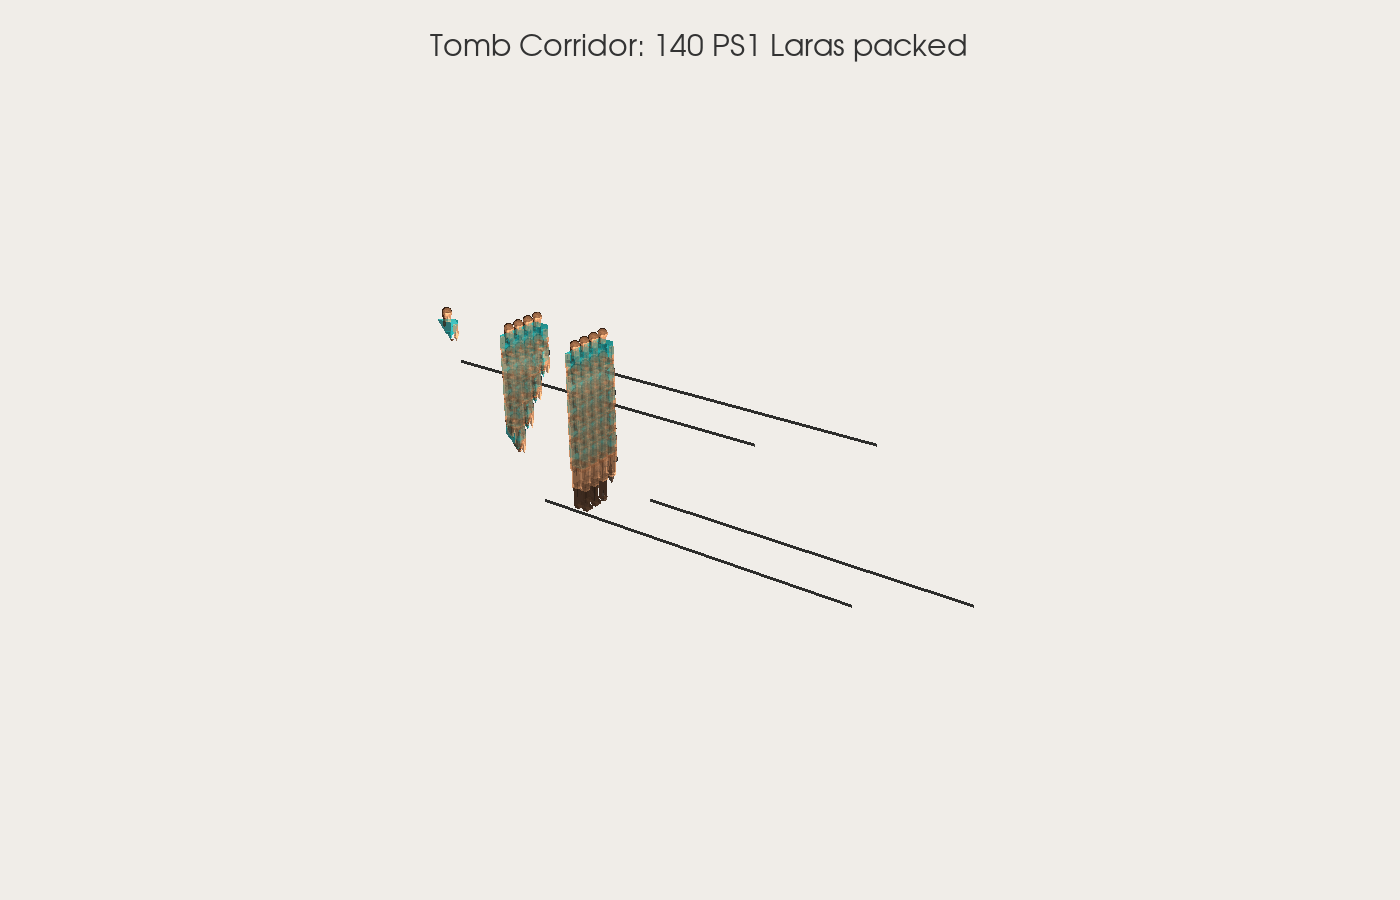
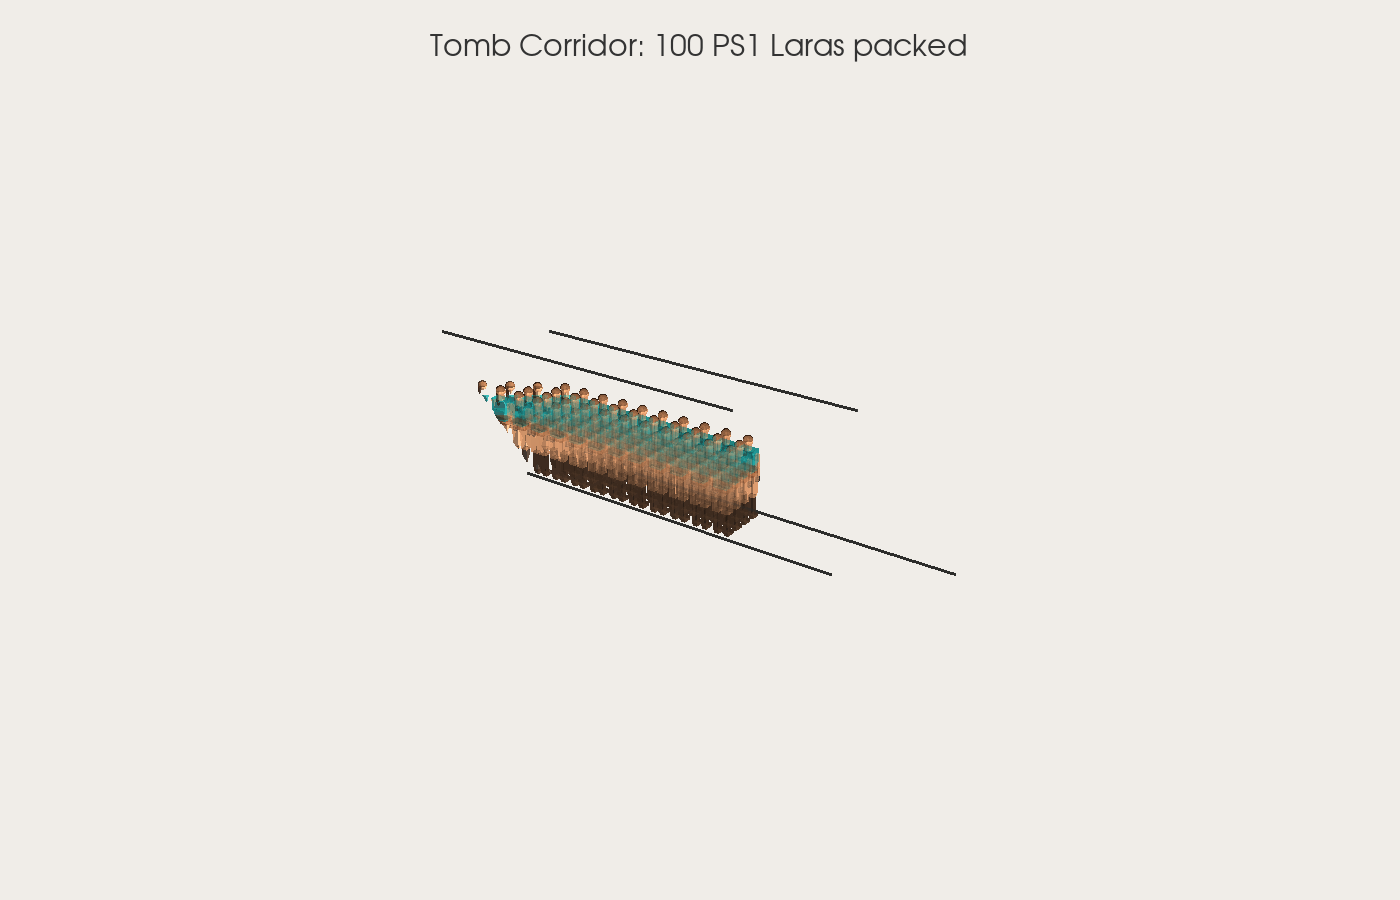
Fix packing scene orientations and camera for all venues
- Add pack_3d_visual() that preserves upright orientation (Z-axis stays up)
- Fix mesh-offset mismatch: apply permutation matrix to mesh for rendering
- Adaptive camera for elongated containers (Boeing 737 end-on view)
- Increase max_render to 200 with uniform subsampling for large scenes
- All standing humans now render standing, planking horizontal, etc.

Changed region(s): [[0.3071, 0.3422, 0.6757, 0.6533], [0.4607, 0.0311, 0.4914, 0.0622]]

diff --git a/peoplepacking/experiment3d.py b/peoplepacking/experiment3d.py
@@ -109,7 +109,7 @@ def render_mesh(mesh, filename, title="", color=None, show_bb=True,
 
 
 def render_packing_scene(meshes_with_offsets, container_dims, filename, title="",
-                          window_size=(1400, 900), max_render=60):
+                          window_size=(1400, 900), max_render=200):
     """Render a 3D packing scene with multiple colored humans in a container."""
     pl = pv.Plotter(off_screen=True, window_size=window_size)
     pl.set_background('#F0EDE8')
@@ -121,9 +121,15 @@ def render_packing_scene(meshes_with_offsets, container_dims, filename, title=""
         '#F1C27D', '#6B8E9B', '#A0785A', '#B8A89A', '#D2A679',
     ]
 
-    n_to_render = min(len(meshes_with_offsets), max_render)
+    n_total = len(meshes_with_offsets)
+    if n_total <= max_render:
+        render_indices = range(n_total)
+    else:
+        # Sample uniformly to spread rendered humans across the container
+        render_indices = np.linspace(0, n_total - 1, max_render, dtype=int)
 
-    for i, (mesh, offset) in enumerate(meshes_with_offsets[:n_to_render]):
+    for i, idx in enumerate(render_indices):
+        mesh, offset = meshes_with_offsets[idx]
         shifted = mesh.copy()
         shifted.vertices += offset
         pv_mesh = trimesh_to_pyvista(shifted)
@@ -139,11 +145,22 @@ def render_packing_scene(meshes_with_offsets, container_dims, filename, title=""
     if title:
         pl.add_title(title, font_size=12, color='#333333')
 
-    # 3/4 isometric view (Z is up)
-    pl.camera_position = 'xz'
-    pl.camera.azimuth = 35
-    pl.camera.elevation = 25
-    pl.camera.zoom(0.80)
+    # Camera: use end-on view for very elongated containers, 3/4 iso otherwise
+    aspect = max(Lx, Ly) / max(min(Lx, Ly), 0.1)
+    if aspect > 5:
+        # Elongated container - look from one end so cross-section is visible
+        cx, cy, cz = Lx / 2, Ly / 2, Lz / 2
+        pl.camera.focal_point = (cx, cy, cz)
+        pl.camera.position = (Lx * 1.8, -Ly * 2.5, Lz * 2.5)
+        pl.camera.up = (0, 0, 1)
+        pl.reset_camera()
+        pl.camera.zoom(0.9)
+    else:
+        pl.reset_camera()
+        pl.camera.azimuth = 35
+        pl.camera.elevation = 25
+        pl.camera.zoom(0.85)
+
     # Two-point lighting for depth
     pl.add_light(pv.Light(position=(Lx*2, Ly*2, Lz*3), intensity=0.7))
     pl.add_light(pv.Light(position=(-Lx, -Ly, Lz*2), intensity=0.3))
@@ -249,6 +266,50 @@ def apply_rotation_to_mesh(mesh, R):
     # Re-center to put min at origin
     m.vertices -= m.vertices.min(axis=0)
     return m
+
+
+def perm_to_matrix(perm):
+    """Convert an axis permutation to a 3x3 transform matrix.
+    perm=(a,b,c) means: map original axis a->X, b->Y, c->Z."""
+    P = np.zeros((3, 3))
+    P[0, perm[0]] = 1
+    P[1, perm[1]] = 1
+    P[2, perm[2]] = 1
+    return P
+
+
+def pack_3d_visual(mesh, container_dims):
+    """Pack for visualization: only upright-preserving orientations.
+    Allows swapping X/Y but keeps Z as Z so humans stay upright."""
+    bb = get_bounding_box(mesh)
+    Lx, Ly, Lz = container_dims
+
+    best_count = 0
+    best_offsets = []
+    best_bb = bb
+    best_perm = (0, 1, 2)
+
+    # Only permutations that preserve Z axis
+    for perm in [(0, 1, 2), (1, 0, 2)]:
+        bw, bd, bh = bb[perm[0]], bb[perm[1]], bb[perm[2]]
+
+        nx = int(Lx // bw) if bw > 0 else 0
+        ny = int(Ly // bd) if bd > 0 else 0
+        nz = int(Lz // bh) if bh > 0 else 0
+
+        count = nx * ny * nz
+        if count > best_count:
+            best_count = count
+            best_bb = np.array([bw, bd, bh])
+            best_perm = perm
+            offsets = []
+            for ix in range(nx):
+                for iy in range(ny):
+                    for iz in range(nz):
+                        offsets.append(np.array([ix * bw, iy * bd, iz * bh]))
+            best_offsets = offsets
+
+    return best_count, best_offsets, best_bb, best_perm
 
 
 # ============================================================
@@ -434,38 +495,35 @@ def experiment_3_packing_visualization():
 
         mesh = build_posed_human(pose_name)
 
-        # Try both basic and rotation-search packing
-        count_basic, offsets_basic, bb_basic = pack_3d_grid(mesh, dims)
-        count_rot, offsets_rot, bb_rot, R_rot = pack_3d_rotation_search(mesh, dims, angle_steps=12)
+        # For the actual count, use rotation search (reported in paper)
+        count_rot, _, _, _ = pack_3d_rotation_search(mesh, dims, angle_steps=12)
+        count_basic, _, _ = pack_3d_grid(mesh, dims)
+        count_max = max(count_rot, count_basic)
 
-        if count_rot > count_basic:
-            count, offsets, bb_used = count_rot, offsets_rot, bb_rot
-            mesh_packed = apply_rotation_to_mesh(mesh, R_rot)
-            method = "rotation-optimized"
-        else:
-            count, offsets, bb_used = count_basic, offsets_basic, bb_basic
-            # Still need to orient mesh to match the best permutation
-            mesh_packed = mesh.copy()
-            mesh_packed.vertices -= mesh_packed.vertices.min(axis=0)
-            method = "axis-aligned"
+        # For visualization, use upright-preserving packing so humans look correct
+        count_vis, offsets, bb_used, perm = pack_3d_visual(mesh, dims)
 
-        print(f"    Packed: {count} humans ({method})")
+        # Apply the X/Y permutation to mesh (keeps Z as up)
+        P = perm_to_matrix(perm)
+        mesh_packed = apply_rotation_to_mesh(mesh, P)
 
-        if count == 0:
+        print(f"    Packed: {count_vis} humans (visual), {count_max} (rotation-optimized)")
+
+        if count_vis == 0:
             print(f"    (No humans fit - skipping)")
             continue
 
         # Build mesh+offset pairs for rendering
         meshes_with_offsets = [(mesh_packed, offset) for offset in offsets]
 
-        vol_eff = count * mesh.convex_hull.volume / (dims[0] * dims[1] * dims[2])
+        vol_eff = count_vis * mesh.convex_hull.volume / (dims[0] * dims[1] * dims[2])
 
         safe = f"{venue_name}_{pose_name}".replace(" ", "_").replace("/", "_").replace("(", "").replace(")", "")
         render_packing_scene(
             meshes_with_offsets, dims,
             f"{OUTPUT_DIR}/scene_{safe}.png",
-            title=f"{venue_name}: {count} humans in {pose_name}  |  "
-                  f"Vol. Eff: {vol_eff:.0%}  |  {method}",
+            title=f"{venue_name}: {count_vis} humans in {pose_name}  |  "
+                  f"Vol. Eff: {vol_eff:.0%}",
         )
         print(f"    Saved scene_{safe}.png")
 
@@ -712,10 +770,10 @@ def experiment_6_body_diversity():
         mesh.vertices[:, 1] *= scales["d"]
         mesh.vertices[:, 2] *= scales["h"]
 
-        count, offsets, bb_used = pack_3d_grid(mesh, CONTAINER)
+        count, offsets, bb_used, perm = pack_3d_visual(mesh, CONTAINER)
         if count > 0:
-            mesh_packed = mesh.copy()
-            mesh_packed.vertices -= mesh_packed.vertices.min(axis=0)
+            P = perm_to_matrix(perm)
+            mesh_packed = apply_rotation_to_mesh(mesh, P)
             meshes_with_offsets = [(mesh_packed, o) for o in offsets]
             safe = label.replace(" ", "_").replace("(", "").replace(")", "").replace(",", "").replace(".", "")
             render_packing_scene(

diff --git a/peoplepacking/lara_experiment.py b/peoplepacking/lara_experiment.py
@@ -27,6 +27,7 @@ from human3d import (
 from experiment3d import (
     render_mesh, trimesh_to_pyvista,
     pack_3d_grid, pack_3d_rotation_search, apply_rotation_to_mesh,
+    pack_3d_visual, perm_to_matrix,
     OUTPUT_DIR, SKIN_TONE,
 )
 
@@ -732,34 +733,23 @@ def experiment_triangle_visualization():
     dims = VENUES["Tomb Corridor"]
     pose_name = "Standing (arms at sides)"
     mesh = build_lara(pose_name, triangles=True)
-    count_basic, offsets_basic, _ = pack_3d_grid(mesh, dims)
-    count_rot, offsets_rot, _, R_rot = pack_3d_rotation_search(mesh, dims, angle_steps=12)
+    count, offsets, _, perm = pack_3d_visual(mesh, dims)
+    P = perm_to_matrix(perm)
 
-    if count_rot > count_basic:
-        count, offsets = count_rot, offsets_rot
-        # Build colored parts for the rotated version
-        parts_template = build_lara_parts(pose_name, triangles=True)
-        rotated_parts = []
-        for m, c in parts_template:
-            mr = m.copy()
-            mr.vertices = mr.vertices @ R_rot.T
-            mr.vertices -= mr.vertices.min(axis=0)
-            rotated_parts.append((mr, c))
-        # Normalize all parts together
-        all_verts = np.vstack([m.vertices for m, _ in rotated_parts])
-        global_min = all_verts.min(axis=0)
-        rotated_parts = [(trimesh.Trimesh(vertices=m.vertices - global_min, faces=m.faces), c)
-                         for m, c in rotated_parts]
-    else:
-        count, offsets = count_basic, offsets_basic
-        parts_template = build_lara_parts(pose_name, triangles=True)
-        all_verts = np.vstack([m.vertices for m, _ in parts_template])
-        global_min = all_verts.min(axis=0)
-        rotated_parts = [(trimesh.Trimesh(vertices=m.vertices - global_min, faces=m.faces), c)
-                         for m, c in parts_template]
+    parts_template = build_lara_parts(pose_name, triangles=True)
+    # Apply permutation to all parts
+    oriented_parts = []
+    for m, c in parts_template:
+        mr = m.copy()
+        mr.vertices = mr.vertices @ P.T
+        oriented_parts.append((mr, c))
+    all_verts = np.vstack([m.vertices for m, _ in oriented_parts])
+    global_min = all_verts.min(axis=0)
+    oriented_parts = [(trimesh.Trimesh(vertices=m.vertices - global_min, faces=m.faces), c)
+                      for m, c in oriented_parts]
 
     if count > 0:
-        packed = [(rotated_parts, o) for o in offsets]
+        packed = [(oriented_parts, o) for o in offsets]
         render_lara_packing_scene(
             packed, dims,
             f"{OUTPUT_DIR}/lara_tomb_corridor_packing.png",
@@ -772,33 +762,22 @@ def experiment_triangle_visualization():
     for pose_label, pose_name in [("Standing", "Standing (arms at sides)"),
                                    ("Fetal", "Fetal Position")]:
         mesh = build_lara(pose_name, triangles=True)
-        c1, off1, _ = pack_3d_grid(mesh, dims)
-        c2, off2, _, R2 = pack_3d_rotation_search(mesh, dims, angle_steps=12)
-
-        if c2 > c1:
-            count, offsets, R_use = c2, off2, R2
-        else:
-            count, offsets, R_use = c1, off1, np.eye(3)
+        count, offsets, _, perm = pack_3d_visual(mesh, dims)
+        P = perm_to_matrix(perm)
 
         if count > 0:
             parts_template = build_lara_parts(pose_name, triangles=True)
-            all_verts = np.vstack([m.vertices for m, _ in parts_template])
-            if not np.allclose(R_use, np.eye(3)):
-                rotated_parts = []
-                for m, c in parts_template:
-                    mr = m.copy()
-                    mr.vertices = mr.vertices @ R_use.T
-                    rotated_parts.append((mr, c))
-                all_verts_r = np.vstack([m.vertices for m, _ in rotated_parts])
-                global_min = all_verts_r.min(axis=0)
-                rotated_parts = [(trimesh.Trimesh(vertices=m.vertices - global_min, faces=m.faces), c)
-                                 for m, c in rotated_parts]
-            else:
-                global_min = all_verts.min(axis=0)
-                rotated_parts = [(trimesh.Trimesh(vertices=m.vertices - global_min, faces=m.faces), c)
-                                 for m, c in parts_template]
+            oriented_parts = []
+            for m, c in parts_template:
+                mr = m.copy()
+                mr.vertices = mr.vertices @ P.T
+                oriented_parts.append((mr, c))
+            all_verts = np.vstack([m.vertices for m, _ in oriented_parts])
+            global_min = all_verts.min(axis=0)
+            oriented_parts = [(trimesh.Trimesh(vertices=m.vertices - global_min, faces=m.faces), c)
+                              for m, c in oriented_parts]
 
-            packed = [(rotated_parts, o) for o in offsets]
+            packed = [(oriented_parts, o) for o in offsets]
             safe = f"School_Bus_{pose_label}"
             render_lara_packing_scene(
                 packed, dims,
